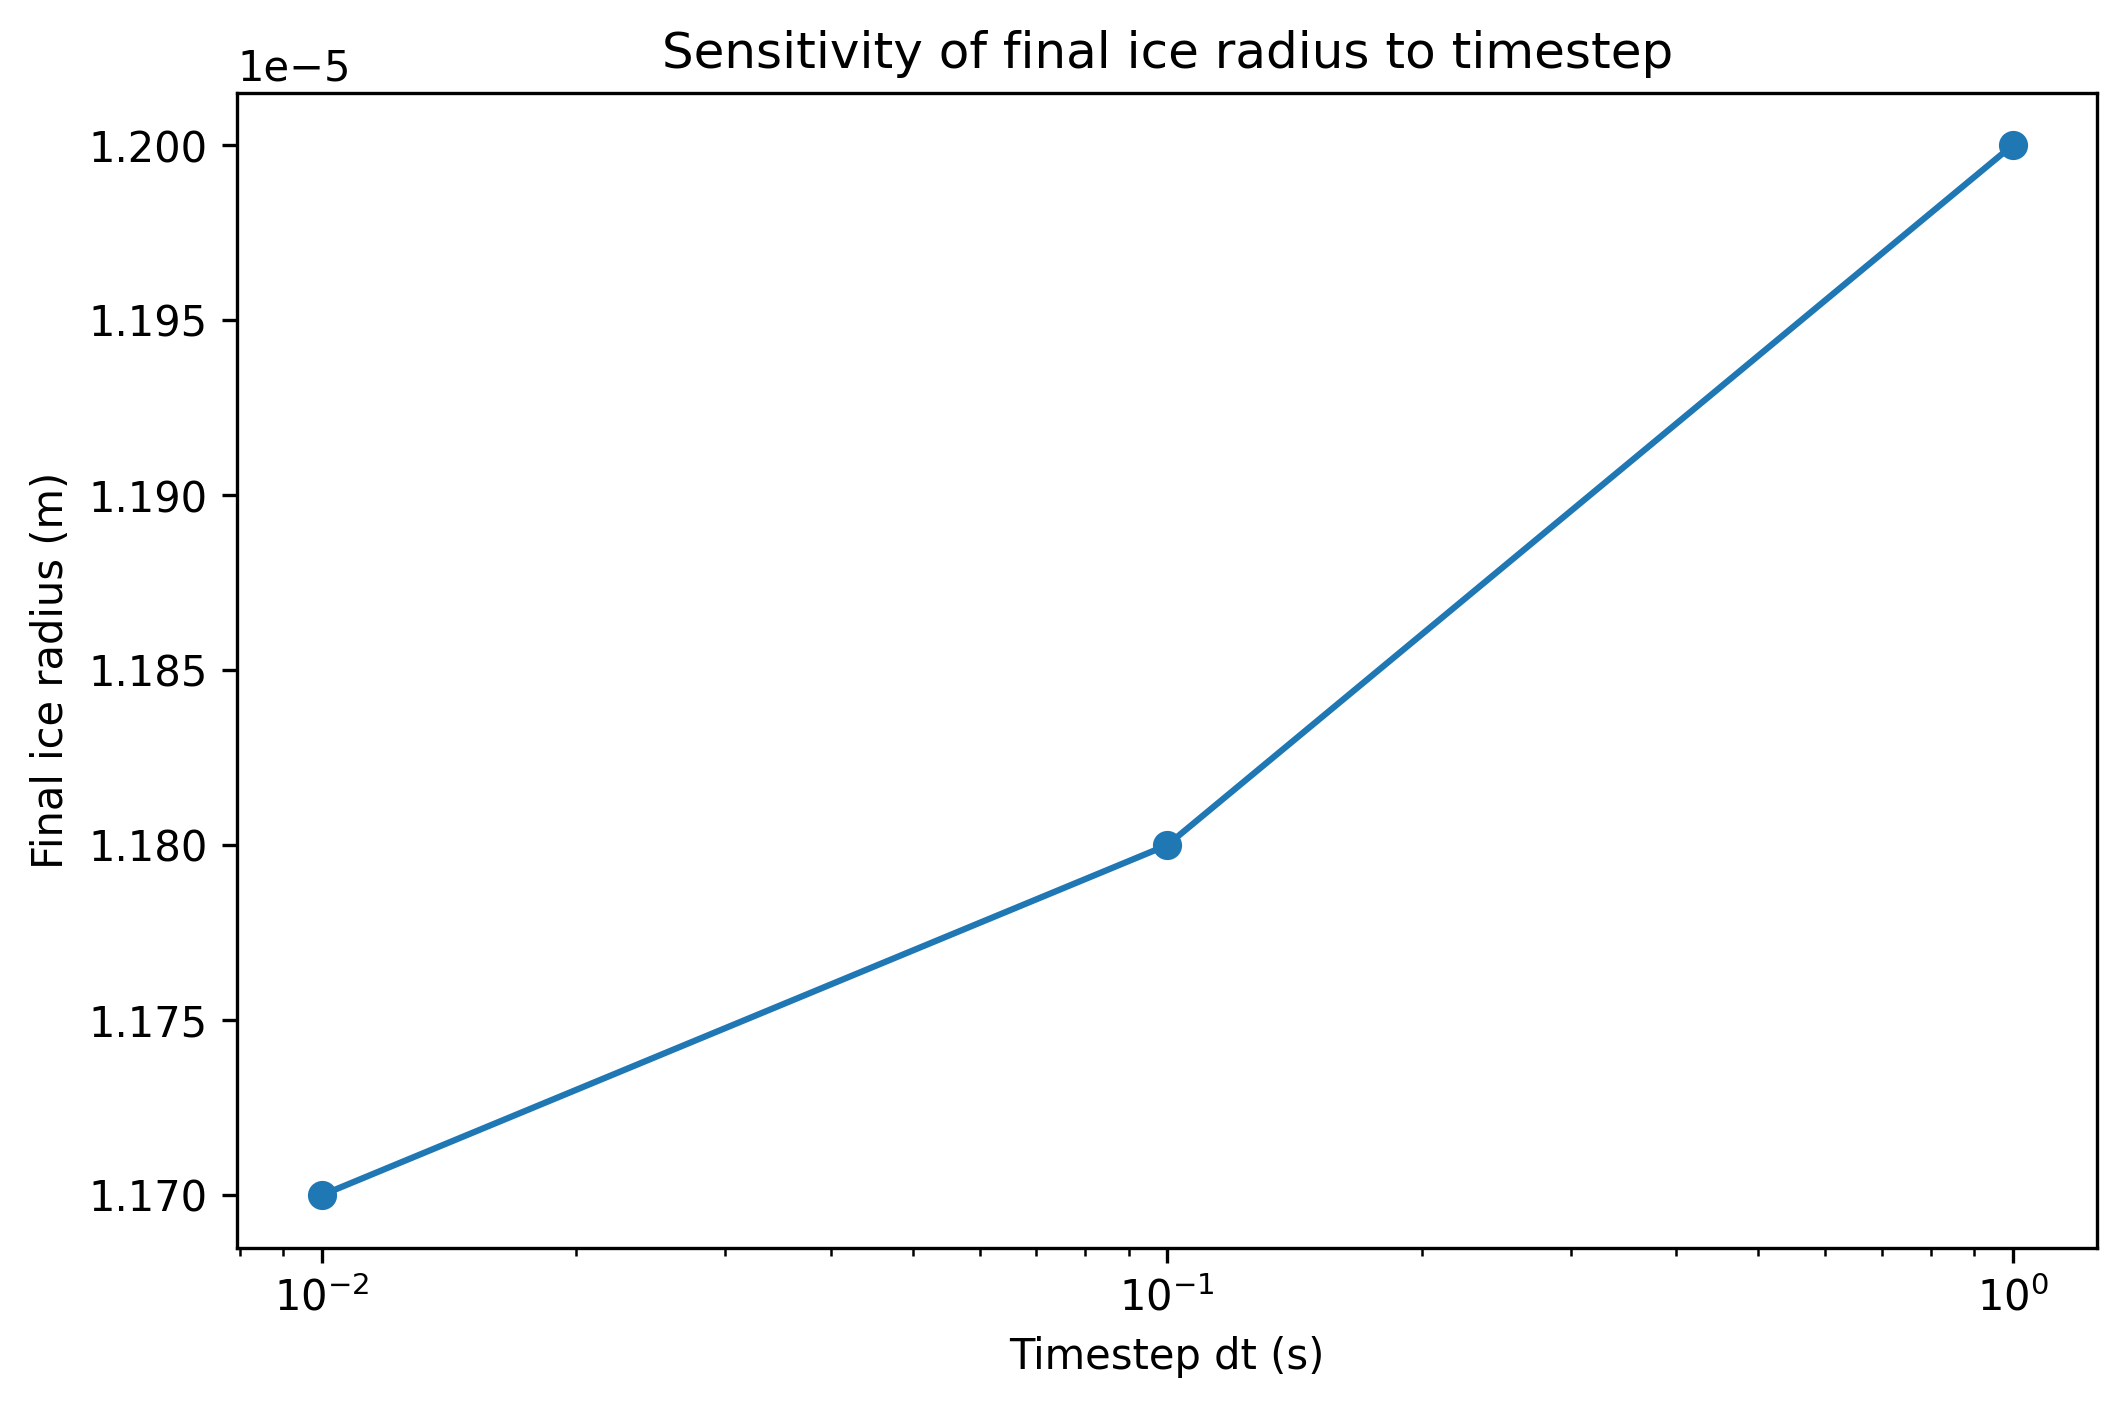
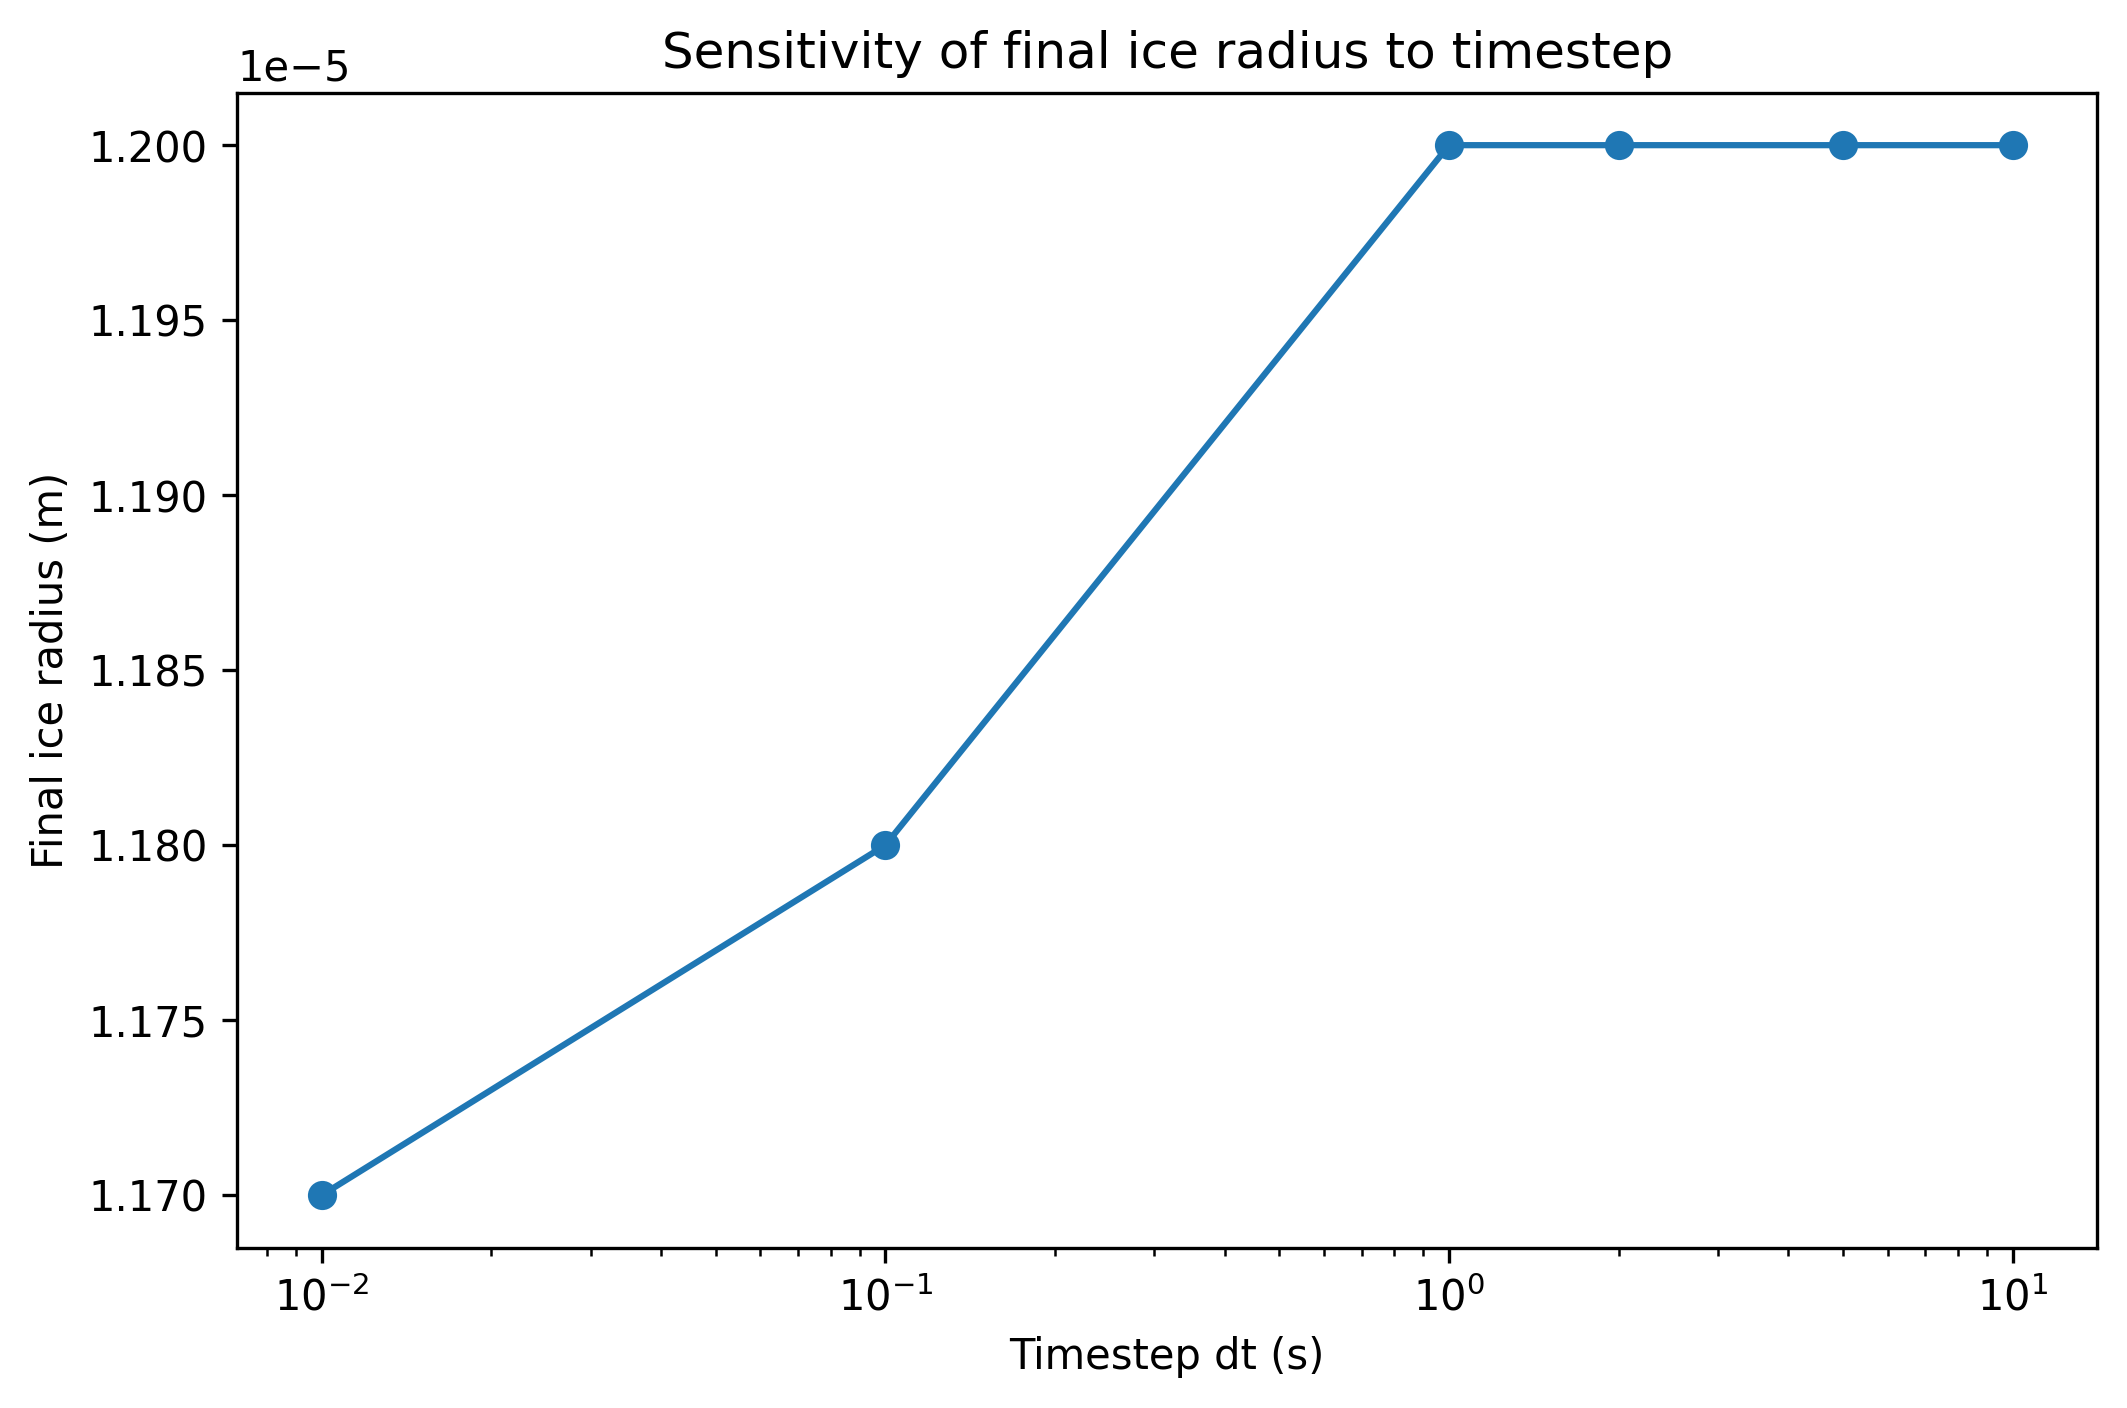
add full timestep sensitivity figure including large dt values

diff --git a/parcel_model/plot_stability.py b/parcel_model/plot_stability.py
@@ -1,23 +1,16 @@
 import matplotlib.pyplot as plt
 
 # Data from timestep sensitivity tests
-dt = [0.01, 0.1, 1.0]
-r_final = [1.17e-05, 1.18e-05, 1.20e-05]
+dt = [0.01, 0.1, 1.0, 2.0, 5.0, 10.0]
+r_final = [1.17e-05, 1.18e-05, 1.20e-05, 1.20e-05, 1.20e-05, 1.20e-05]
 
-# Create plot
 plt.figure(figsize=(8, 5))
 plt.plot(dt, r_final, marker="o")
 
-# Labels and title
 plt.xlabel("Timestep dt (s)")
 plt.ylabel("Final ice radius (m)")
 plt.title("Sensitivity of final ice radius to timestep")
-
-# Use log scale on x-axis
 plt.xscale("log")
 
-# Save figure
 plt.savefig("figures/figure_dt_sensitivity.png", dpi=300, bbox_inches="tight")
-
-# Show figure
 plt.show()
